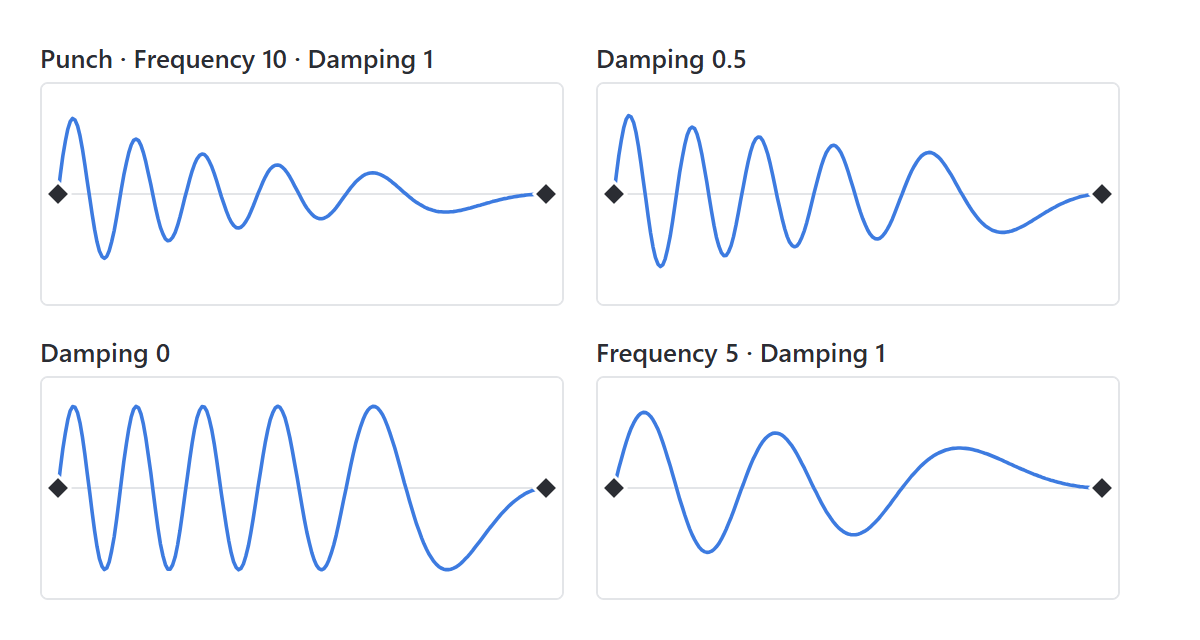
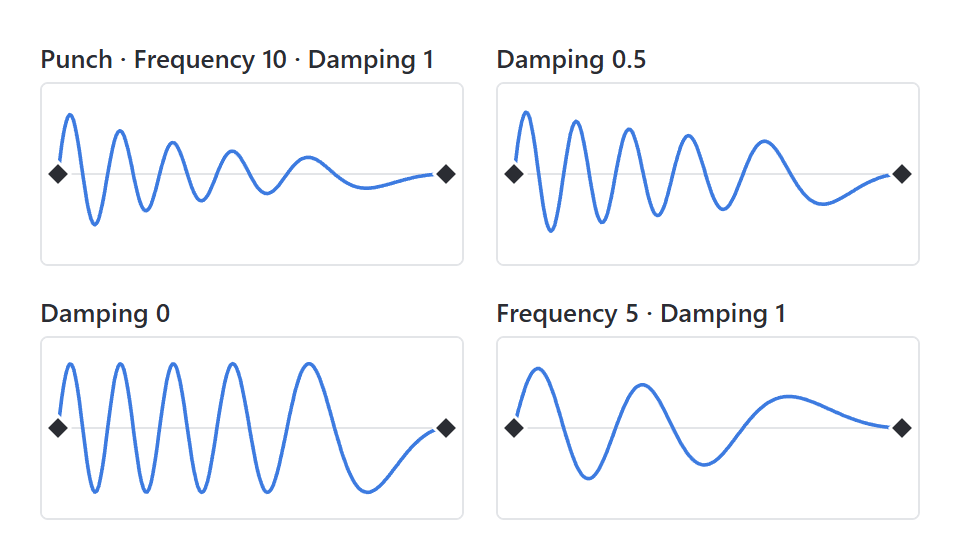
Docs~: Arrival graphs drawn smaller (480 px, the ease table 664 px)

diff --git a/Docs~/en/Guide.md b/Docs~/en/Guide.md
@@ -439,7 +439,7 @@ For how each Type behaves, see [Arrival](#7-arrival).
 
 A key sets only **when** (its time) and **what value**. How the track gets **from one key to the next** is its arrival. When you open a drawer, you pull it fast at first and slow down as it comes out: moving the same distance in the same time feels completely different depending on how the speed changes on the way.
 
-![The same two keys (previous key 0, this key 1) passed with Linear, OutSine and OutBack. Linear moves at a constant speed, OutSine starts fast and arrives slowly, and OutBack goes slightly past the target and comes back.](../media/arrival/arrival-compare.png)
+<img src="../media/arrival/arrival-compare.png" width="480" alt="The same two keys (previous key 0, this key 1) passed with Linear, OutSine and OutBack. Linear moves at a constant speed, OutSine starts fast and arrives slowly, and OutBack goes slightly past the target and comes back.">
 
 The three lines in the graph have the same keys: 0 at 0 s and 1 at the end. Only the arrival differs.
 
@@ -447,7 +447,7 @@ The three lines in the graph have the same keys: 0 at 0 s and 1 at the end. Only
 
 Each key has one arrival, and it sets how the track moves **from the previous key to this key**. With three keys there are two segments, and each can use a different arrival.
 
-![Three keys, two segments. From key 1 to key 2 (0.4 s) the track moves with key 2's arrival, OutBack, going slightly past 1.2; from key 2 to key 3 (1 s) it moves with key 3's arrival, InOutSine, easing down to 1.](../media/arrival/arrival-segments.png)
+<img src="../media/arrival/arrival-segments.png" width="480" alt="Three keys, two segments. From key 1 to key 2 (0.4 s) the track moves with key 2's arrival, OutBack, going slightly past 1.2; from key 2 to key 3 (1 s) it moves with key 3's arrival, InOutSine, easing down to 1.">
 
 * The segment from key 1 to key 2 uses **key 2's** arrival, and the one from key 2 to key 3 uses **key 3's**.
 * The first key has no segment coming in, so its arrival is disabled. The exception is a track whose Start is Current Value with only one key: the segment from the value at play time to that key uses that key's arrival.
@@ -485,7 +485,7 @@ The most used Type. Choose one of 36 curves. The two parts of a name mean:
 | **Elastic** | Wobbles like a rubber band |
 | **Bounce** | Arrives as if bouncing off the floor |
 
-![Graphs of all 36 eases. In each cell, the horizontal axis is the progress through the segment (0 to 1) and the vertical axis is 0 at the previous key's value and 1 at this key's value; the faint lines are 0 and 1. These are the values KeyTween computes.](../media/arrival/arrival-eases.png)
+<img src="../media/arrival/arrival-eases.png" width="664" alt="Graphs of all 36 eases. In each cell, the horizontal axis is the progress through the segment (0 to 1) and the vertical axis is 0 at the previous key's value and 1 at this key's value; the faint lines are 0 and 1. These are the values KeyTween computes.">
 
 * The first 32, Linear through InOutBounce, match LitMotion's `Ease` in number and formula.
 * OutBackQuad through OutBackQuint are Unity-AnimationUI's OutBack family. Each goes further past the target before coming back.
@@ -509,7 +509,7 @@ There is no single right answer, but starting from these usually looks natural.
 
 If no ease has the shape you want, choose the **Curve** Type, click the **Animation Curve** field and draw it in Unity's curve editor.
 
-![An example curve. The horizontal axis is the progress through the segment (0 to 1) and the vertical axis is 0 at the previous key's value and 1 at this key's value. It goes past to 1.15 around 0.6 and comes back to 1.](../media/arrival/arrival-curve.png)
+<img src="../media/arrival/arrival-curve.png" width="480" alt="An example curve. The horizontal axis is the progress through the segment (0 to 1) and the vertical axis is 0 at the previous key's value and 1 at this key's value. It goes past to 1.15 around 0.6 and comes back to 1.">
 
 ![The key inspector with a key of Card's Color track selected. The Arrival Type is Curve, with the Animation Curve field and a graph of the same shape.](../media/arrival/arrival-inspector-curve.png)
 
@@ -533,9 +533,9 @@ Use these for a bump when a button is pressed, or a jitter on an error. Unlike t
 | **Damping** | How much the shake dies out. 1 dies out toward the end; 0 keeps the same strength until it returns into place | 1 |
 | **Ease** | How the shake is spread over time. With Out Sine, the shakes crowd toward the start and slow down later | Out Sine |
 
-![Four Punch graphs: strength 1 over 1 s. Against Frequency 10 and Damping 1, Damping 0.5 and 0 die out less, and Frequency 5 shakes more slowly. All of them return to rest (0) at the end.](../media/arrival/arrival-punch.png)
+<img src="../media/arrival/arrival-punch.png" width="480" alt="Four Punch graphs: strength 1 over 1 s. Against Frequency 10 and Damping 1, Damping 0.5 and 0 die out less, and Frequency 5 shakes more slowly. All of them return to rest (0) at the end.">
 
-![Two Shake graphs: Frequency 10 with Damping 1 and 0. They jitter randomly and return to rest at the end.](../media/arrival/arrival-shake.png)
+<img src="../media/arrival/arrival-shake.png" width="480" alt="Two Shake graphs: Frequency 10 with Damping 1 and 0. They jitter randomly and return to rest at the end.">
 
 * The formulas are the same as LitMotion's `LMotion.Punch` and `LMotion.Shake`.
 * Because it settles back into place, a Punch key usually comes right after a key at rest. For example, a key at 0 s (Scale 1) followed by a Punch key at 0.3 s (Strength 0.2) bumps around scale 1 and comes back to 1.
